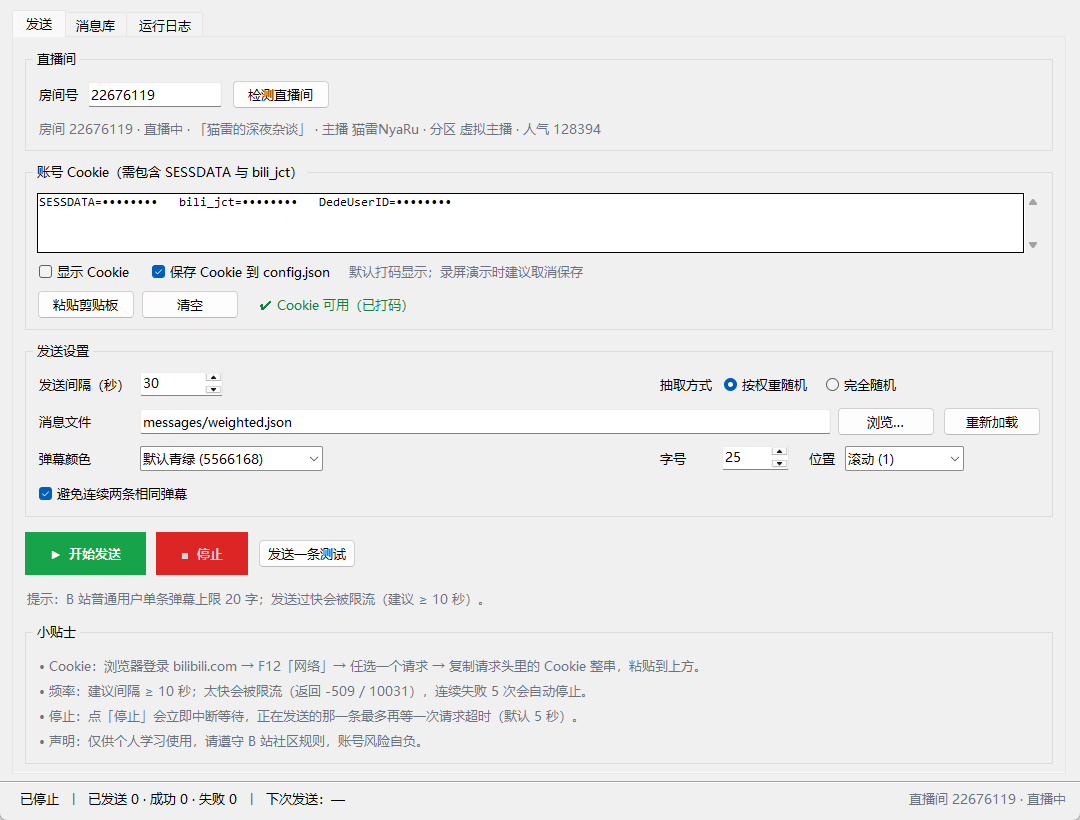
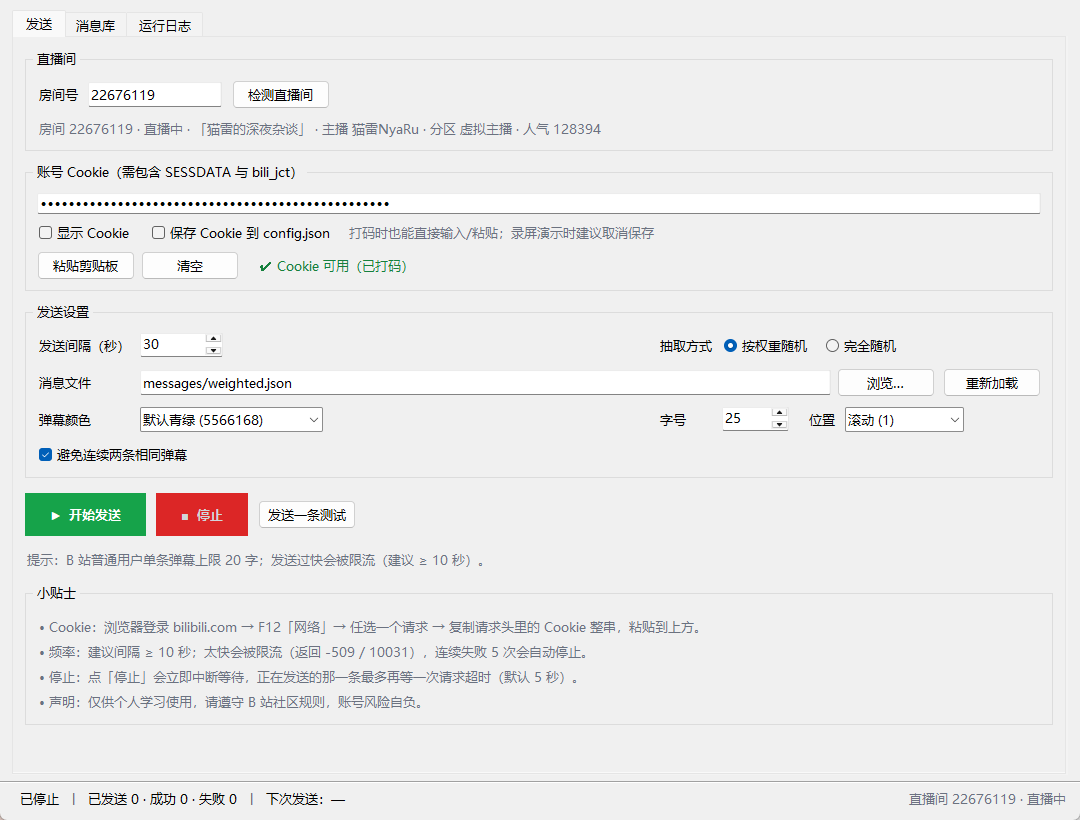
fix: 打码状态下 Cookie 无法输入
- 打码时改用密码框，仍可直接输入/粘贴，内容显示为圆点
- 勾选「显示 Cookie」切换为多行文本框
- 更新截图与版本号 1.1.2

diff --git a/bili_send/gui.py b/bili_send/gui.py
@@ -20,7 +20,7 @@ from pathlib import Path
 from tkinter import filedialog, messagebox, scrolledtext, ttk
 from typing import Any
 
-from .client import BilibiliClient, BilibiliError, RoomInfo, cookie_warnings, mask_cookie, parse_cookie
+from .client import BilibiliClient, BilibiliError, RoomInfo, cookie_warnings, parse_cookie
 from .config import (
     APP_DIR,
     DEFAULT_MESSAGES_FILE,
@@ -203,6 +203,13 @@ class BiliSendApp(tk.Tk):
         text_frame.grid(row=0, column=0, sticky="ew")
         text_frame.columnconfigure(0, weight=1)
 
+        # 打码状态用密码框：可以直接输入/粘贴，只是显示成圆点
+        self.cookie_entry = ttk.Entry(text_frame, show="•", font=("Consolas", 10))
+        self.cookie_entry.grid(row=0, column=0, sticky="ew")
+        self.cookie_entry.bind("<KeyRelease>", lambda _event: self._refresh_cookie_status())
+        self.cookie_entry.bind("<<Paste>>", lambda _event: self.after_idle(self._refresh_cookie_status))
+
+        # 显示状态切成多行文本，方便查看/编辑很长的 Cookie
         self.cookie_text = tk.Text(
             text_frame,
             height=4,
@@ -212,12 +219,16 @@ class BiliSendApp(tk.Tk):
             font=("Consolas", 9),
             state="disabled",
         )
+        self.cookie_scroll = ttk.Scrollbar(text_frame, orient="vertical", command=self.cookie_text.yview)
+        self.cookie_text.configure(yscrollcommand=self.cookie_scroll.set)
+        # 先放好位置再隐藏，切换「显示 Cookie」时能原样恢复
         self.cookie_text.grid(row=0, column=0, sticky="ew")
-        cookie_scroll = ttk.Scrollbar(text_frame, orient="vertical", command=self.cookie_text.yview)
-        cookie_scroll.grid(row=0, column=1, sticky="ns")
-        self.cookie_text.configure(yscrollcommand=cookie_scroll.set)
+        self.cookie_scroll.grid(row=0, column=1, sticky="ns")
+        self.cookie_text.grid_remove()
+        self.cookie_scroll.grid_remove()
         self.cookie_text.bind("<KeyRelease>", lambda _event: self._refresh_cookie_status())
         self.cookie_text.bind("<FocusOut>", lambda _event: self._refresh_cookie_status())
+        self.cookie_text.bind("<<Paste>>", lambda _event: self.after_idle(self._refresh_cookie_status))
 
         cookie_options = ttk.Frame(cookie_box)
         cookie_options.grid(row=1, column=0, sticky="ew", pady=(6, 0))
@@ -237,7 +248,7 @@ class BiliSendApp(tk.Tk):
         self.save_cookie_check.pack(side="left", padx=(18, 0))
 
         ttk.Label(
-            cookie_options, text="默认打码显示；录屏演示时建议取消保存", style="Muted.TLabel"
+            cookie_options, text="打码时也能直接输入/粘贴；录屏演示时建议取消保存", style="Muted.TLabel"
         ).pack(side="left", padx=(14, 0))
 
         cookie_tools = ttk.Frame(cookie_box)
@@ -383,6 +394,7 @@ class BiliSendApp(tk.Tk):
         self._lockable = [
             self.room_entry,
             self.detect_btn,
+            self.cookie_entry,
             self.cookie_text,
             self.interval_spin,
             self.msg_path_entry,
@@ -648,40 +660,51 @@ class BiliSendApp(tk.Tk):
 
     # ---------------------------------------------------------------- Cookie
     def _set_cookie_value(self, value: str, hide: bool = True) -> None:
-        """设置 Cookie 内容；hide=True 时界面上只显示打码文本。"""
+        """设置 Cookie 内容；hide=True 时用密码框显示成圆点，但仍可编辑。"""
         self._cookie_value = (value or "").strip()
         self._cookie_hidden = hide
-        self._render_cookie_text()
+        self._render_cookie_widget()
 
-    def _render_cookie_text(self) -> None:
-        widget = self.cookie_text
-        widget.configure(state="normal")
-        widget.delete("1.0", "end")
+    def _render_cookie_widget(self) -> None:
+        value = self._cookie_value
         if self._cookie_hidden:
-            widget.insert("1.0", mask_cookie(self._cookie_value))
+            self.cookie_entry.delete(0, "end")
+            self.cookie_entry.insert(0, value)
+            self.cookie_entry.icursor("end")
+            self.cookie_entry.grid()
+            self.cookie_entry.configure(state="disabled" if self._running else "normal")
+            self.cookie_text.grid_remove()
+            self.cookie_scroll.grid_remove()
         else:
-            widget.insert("1.0", self._cookie_value)
-        widget.configure(state="normal" if not self._cookie_hidden and not self._running else "disabled")
+            self.cookie_text.configure(state="normal")
+            self.cookie_text.delete("1.0", "end")
+            self.cookie_text.insert("1.0", value)
+            self.cookie_text.mark_set("insert", "end")
+            self.cookie_text.grid()
+            self.cookie_text.configure(state="disabled" if self._running else "normal")
+            self.cookie_entry.grid_remove()
+            self.cookie_scroll.grid()
 
     def _cookie_text_now(self) -> str:
         if self._cookie_hidden:
-            return self._cookie_value
+            return self.cookie_entry.get().strip()
         return self.cookie_text.get("1.0", "end").strip()
 
     def _sync_cookie_value(self) -> None:
-        if not self._cookie_hidden:
-            self._cookie_value = self.cookie_text.get("1.0", "end").strip()
+        self._cookie_value = self._cookie_text_now()
 
     def _on_toggle_show_cookie(self) -> None:
         if self._running:
             return
-        if self.show_cookie_var.get():
-            self._cookie_hidden = False
-        else:
-            self._sync_cookie_value()
-            self._cookie_hidden = True
-        self._render_cookie_text()
+        self._sync_cookie_value()
+        self._cookie_hidden = not bool(self.show_cookie_var.get())
+        self._render_cookie_widget()
         self._refresh_cookie_status()
+        if self._cookie_hidden:
+            self.cookie_entry.focus_set()
+            self.cookie_entry.icursor("end")
+        else:
+            self.cookie_text.focus_set()
 
     def _on_toggle_save_cookie(self) -> None:
         self.cfg.save_cookie = bool(self.save_cookie_var.get())
@@ -1180,8 +1203,8 @@ class BiliSendApp(tk.Tk):
         for widget in self._lockable:
             if not isinstance(widget, (tk.Text, ttk.Widget)):
                 continue
-            if widget is self.cookie_text:
-                state = "normal" if not running and not self._cookie_hidden else "disabled"
+            if widget is self.cookie_entry or widget is self.cookie_text:
+                state = "disabled" if running else "normal"
             elif running:
                 state = "disabled"
             elif widget is self.position_combo:

diff --git a/bili_send/__init__.py b/bili_send/__init__.py
@@ -2,4 +2,4 @@
 
 from __future__ import annotations
 
-__version__ = "1.1.1"
+__version__ = "1.1.2"

diff --git a/README.md b/README.md
@@ -9,7 +9,7 @@
 
 **https://github.com/StayAlivez/BILIBILI_SEND_PY/releases**
 
-- 包名：`BILIBILI_SEND_PY_v1.1.1_portable_win64.zip`
+- 包名：`BILIBILI_SEND_PY_v1.1.2_portable_win64.zip`
 - 内置 Python 3.11.9 运行时（含 tkinter），解压后双击 `run.bat` 即可，**无需安装 Python**
 - 仅支持 Windows 10 / 11 64 位
 - 如果双击没反应，改双击 `debug.bat`，控制台里会显示具体报错
@@ -65,7 +65,7 @@
 
 ### 录屏 / 演示时的隐私
 
-- Cookie 框默认只显示 `SESSDATA=••••••••` 这样的打码文本，**不会把值显示在屏幕上**。
+- Cookie 框默认是密码框，只显示圆点；仍可直接输入或粘贴，**不会把值显示在屏幕上**。
 - 只有勾选「显示 Cookie」才会明文显示；录完记得再取消勾选。
 - 「保存 Cookie 到 config.json」默认开启。录屏前建议取消勾选：程序会立即清除配置文件里已保存的 Cookie，之后启动也不会自动填入。
 - 打码状态下，状态栏只显示「Cookie 可用（已打码）」，不显示 UID。
@@ -146,7 +146,7 @@ py -3 tools/build_portable.py --python-home "C:\...\pythoncore-3.11-64" --proxy 
 ```
 
 脚本会下载官方 embeddable 包（缓存到 `.cache/`）、补入 tkinter / Tcl / Tk，
-自检通过后输出 `dist/BILIBILI_SEND_PY_v1.1.1_portable_win64.zip`。
+自检通过后输出 `dist/BILIBILI_SEND_PY_v1.1.2_portable_win64.zip`。
 
 ## 注意事项
 

diff --git a/docs/release-v1.1.2.md b/docs/release-v1.1.2.md
@@ -1,0 +1,15 @@
+## BILIBILI_SEND_PY v1.1.2
+
+修复：关闭「显示 Cookie」时无法输入 Cookie 的问题。
+
+### 变更
+
+- 打码状态改用密码框：仍可以直接输入、粘贴、清空，只是内容显示为圆点
+- 勾选「显示 Cookie」时切换为多行文本框，方便查看和编辑很长的 Cookie
+- 其余隐私行为不变：可关闭保存、日志不写 UID、状态栏只提示「Cookie 可用（已打码）」
+- 免安装包仍内置 Python 3.11.9 + tkinter
+
+### 使用
+
+下载 `BILIBILI_SEND_PY_v1.1.2_portable_win64.zip`，解压后双击 `run.bat`；
+如果没反应，双击 `debug.bat` 可以看到具体报错。
